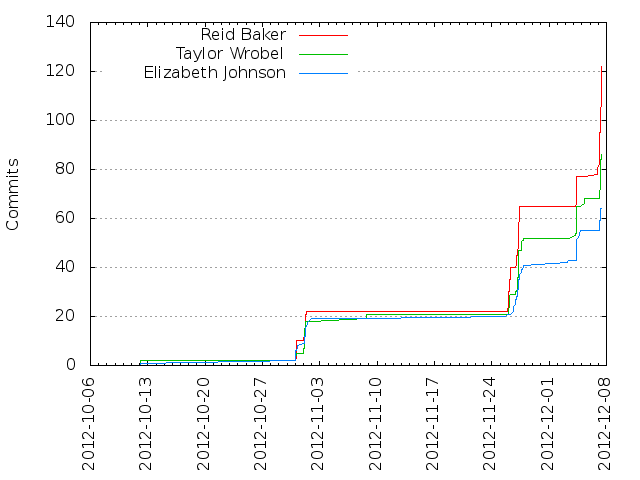
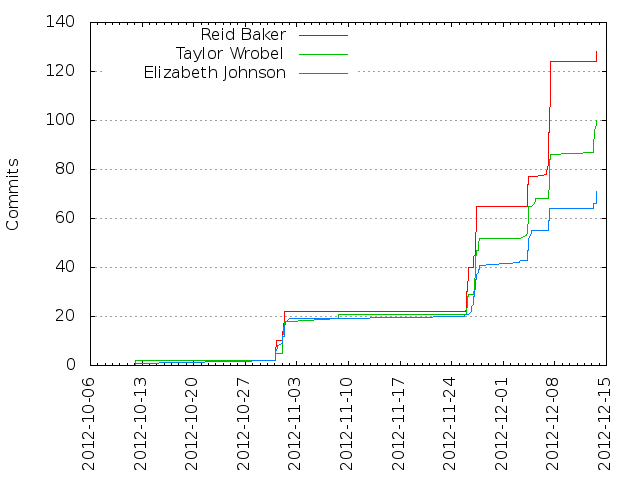
updated documentation

diff --git a/documentation/gitstat/activity.html b/documentation/gitstat/activity.html
@@ -22,27 +22,27 @@
 
 <h2><a href="#weekly_activity" name="weekly_activity">Weekly activity</a></h2>
 
-<p>Last 32 weeks</p><table class="noborders"><tr><td style="text-align: center; vertical-align: bottom">0<div style="display: block; background-color: red; width: 20px; height: 1px"></div></td><td style="text-align: center; vertical-align: bottom">0<div style="display: block; background-color: red; width: 20px; height: 1px"></div></td><td style="text-align: center; vertical-align: bottom">0<div style="display: block; background-color: red; width: 20px; height: 1px"></div></td><td style="text-align: center; vertical-align: bottom">0<div style="display: block; background-color: red; width: 20px; height: 1px"></div></td><td style="text-align: center; vertical-align: bottom">0<div style="display: block; background-color: red; width: 20px; height: 1px"></div></td><td style="text-align: center; vertical-align: bottom">0<div style="display: block; background-color: red; width: 20px; height: 1px"></div></td><td style="text-align: center; vertical-align: bottom">0<div style="display: block; background-color: red; width: 20px; height: 1px"></div></td><td style="text-align: center; vertical-align: bottom">0<div style="display: block; background-color: red; width: 20px; height: 1px"></div></td><td style="text-align: center; vertical-align: bottom">0<div style="display: block; background-color: red; width: 20px; height: 1px"></div></td><td style="text-align: center; vertical-align: bottom">0<div style="display: block; background-color: red; width: 20px; height: 1px"></div></td><td style="text-align: center; vertical-align: bottom">0<div style="display: block; background-color: red; width: 20px; height: 1px"></div></td><td style="text-align: center; vertical-align: bottom">0<div style="display: block; background-color: red; width: 20px; height: 1px"></div></td><td style="text-align: center; vertical-align: bottom">0<div style="display: block; background-color: red; width: 20px; height: 1px"></div></td><td style="text-align: center; vertical-align: bottom">0<div style="display: block; background-color: red; width: 20px; height: 1px"></div></td><td style="text-align: center; vertical-align: bottom">0<div style="display: block; background-color: red; width: 20px; height: 1px"></div></td><td style="text-align: center; vertical-align: bottom">0<div style="display: block; background-color: red; width: 20px; height: 1px"></div></td><td style="text-align: center; vertical-align: bottom">0<div style="display: block; background-color: red; width: 20px; height: 1px"></div></td><td style="text-align: center; vertical-align: bottom">0<div style="display: block; background-color: red; width: 20px; height: 1px"></div></td><td style="text-align: center; vertical-align: bottom">0<div style="display: block; background-color: red; width: 20px; height: 1px"></div></td><td style="text-align: center; vertical-align: bottom">0<div style="display: block; background-color: red; width: 20px; height: 1px"></div></td><td style="text-align: center; vertical-align: bottom">0<div style="display: block; background-color: red; width: 20px; height: 1px"></div></td><td style="text-align: center; vertical-align: bottom">0<div style="display: block; background-color: red; width: 20px; height: 1px"></div></td><td style="text-align: center; vertical-align: bottom">0<div style="display: block; background-color: red; width: 20px; height: 1px"></div></td><td style="text-align: center; vertical-align: bottom">5<div style="display: block; background-color: red; width: 20px; height: 8px"></div></td><td style="text-align: center; vertical-align: bottom">0<div style="display: block; background-color: red; width: 20px; height: 1px"></div></td><td style="text-align: center; vertical-align: bottom">0<div style="display: block; background-color: red; width: 20px; height: 1px"></div></td><td style="text-align: center; vertical-align: bottom">54<div style="display: block; background-color: red; width: 20px; height: 94px"></div></td><td style="text-align: center; vertical-align: bottom">3<div style="display: block; background-color: red; width: 20px; height: 5px"></div></td><td style="text-align: center; vertical-align: bottom">0<div style="display: block; background-color: red; width: 20px; height: 1px"></div></td><td style="text-align: center; vertical-align: bottom">21<div style="display: block; background-color: red; width: 20px; height: 36px"></div></td><td style="text-align: center; vertical-align: bottom">75<div style="display: block; background-color: red; width: 20px; height: 131px"></div></td><td style="text-align: center; vertical-align: bottom">114<div style="display: block; background-color: red; width: 20px; height: 200px"></div></td></tr><tr><td>32</td><td>31</td><td>30</td><td>29</td><td>28</td><td>27</td><td>26</td><td>25</td><td>24</td><td>23</td><td>22</td><td>21</td><td>20</td><td>19</td><td>18</td><td>17</td><td>16</td><td>15</td><td>14</td><td>13</td><td>12</td><td>11</td><td>10</td><td>9</td><td>8</td><td>7</td><td>6</td><td>5</td><td>4</td><td>3</td><td>2</td><td>1</td></tr></table>
+<p>Last 32 weeks</p><table class="noborders"><tr><td style="text-align: center; vertical-align: bottom">0<div style="display: block; background-color: red; width: 20px; height: 1px"></div></td><td style="text-align: center; vertical-align: bottom">0<div style="display: block; background-color: red; width: 20px; height: 1px"></div></td><td style="text-align: center; vertical-align: bottom">0<div style="display: block; background-color: red; width: 20px; height: 1px"></div></td><td style="text-align: center; vertical-align: bottom">0<div style="display: block; background-color: red; width: 20px; height: 1px"></div></td><td style="text-align: center; vertical-align: bottom">0<div style="display: block; background-color: red; width: 20px; height: 1px"></div></td><td style="text-align: center; vertical-align: bottom">0<div style="display: block; background-color: red; width: 20px; height: 1px"></div></td><td style="text-align: center; vertical-align: bottom">0<div style="display: block; background-color: red; width: 20px; height: 1px"></div></td><td style="text-align: center; vertical-align: bottom">0<div style="display: block; background-color: red; width: 20px; height: 1px"></div></td><td style="text-align: center; vertical-align: bottom">0<div style="display: block; background-color: red; width: 20px; height: 1px"></div></td><td style="text-align: center; vertical-align: bottom">0<div style="display: block; background-color: red; width: 20px; height: 1px"></div></td><td style="text-align: center; vertical-align: bottom">0<div style="display: block; background-color: red; width: 20px; height: 1px"></div></td><td style="text-align: center; vertical-align: bottom">0<div style="display: block; background-color: red; width: 20px; height: 1px"></div></td><td style="text-align: center; vertical-align: bottom">0<div style="display: block; background-color: red; width: 20px; height: 1px"></div></td><td style="text-align: center; vertical-align: bottom">0<div style="display: block; background-color: red; width: 20px; height: 1px"></div></td><td style="text-align: center; vertical-align: bottom">0<div style="display: block; background-color: red; width: 20px; height: 1px"></div></td><td style="text-align: center; vertical-align: bottom">0<div style="display: block; background-color: red; width: 20px; height: 1px"></div></td><td style="text-align: center; vertical-align: bottom">0<div style="display: block; background-color: red; width: 20px; height: 1px"></div></td><td style="text-align: center; vertical-align: bottom">0<div style="display: block; background-color: red; width: 20px; height: 1px"></div></td><td style="text-align: center; vertical-align: bottom">0<div style="display: block; background-color: red; width: 20px; height: 1px"></div></td><td style="text-align: center; vertical-align: bottom">0<div style="display: block; background-color: red; width: 20px; height: 1px"></div></td><td style="text-align: center; vertical-align: bottom">0<div style="display: block; background-color: red; width: 20px; height: 1px"></div></td><td style="text-align: center; vertical-align: bottom">0<div style="display: block; background-color: red; width: 20px; height: 1px"></div></td><td style="text-align: center; vertical-align: bottom">5<div style="display: block; background-color: red; width: 20px; height: 8px"></div></td><td style="text-align: center; vertical-align: bottom">0<div style="display: block; background-color: red; width: 20px; height: 1px"></div></td><td style="text-align: center; vertical-align: bottom">0<div style="display: block; background-color: red; width: 20px; height: 1px"></div></td><td style="text-align: center; vertical-align: bottom">54<div style="display: block; background-color: red; width: 20px; height: 93px"></div></td><td style="text-align: center; vertical-align: bottom">3<div style="display: block; background-color: red; width: 20px; height: 5px"></div></td><td style="text-align: center; vertical-align: bottom">0<div style="display: block; background-color: red; width: 20px; height: 1px"></div></td><td style="text-align: center; vertical-align: bottom">21<div style="display: block; background-color: red; width: 20px; height: 36px"></div></td><td style="text-align: center; vertical-align: bottom">75<div style="display: block; background-color: red; width: 20px; height: 129px"></div></td><td style="text-align: center; vertical-align: bottom">116<div style="display: block; background-color: red; width: 20px; height: 200px"></div></td><td style="text-align: center; vertical-align: bottom">25<div style="display: block; background-color: red; width: 20px; height: 43px"></div></td></tr><tr><td>32</td><td>31</td><td>30</td><td>29</td><td>28</td><td>27</td><td>26</td><td>25</td><td>24</td><td>23</td><td>22</td><td>21</td><td>20</td><td>19</td><td>18</td><td>17</td><td>16</td><td>15</td><td>14</td><td>13</td><td>12</td><td>11</td><td>10</td><td>9</td><td>8</td><td>7</td><td>6</td><td>5</td><td>4</td><td>3</td><td>2</td><td>1</td></tr></table>
 <h2><a href="#hour_of_day" name="hour_of_day">Hour of Day</a></h2>
 
 <table><tr><th>Hour</th><th>0</th><th>1</th><th>2</th><th>3</th><th>4</th><th>5</th><th>6</th><th>7</th><th>8</th><th>9</th><th>10</th><th>11</th><th>12</th><th>13</th><th>14</th><th>15</th><th>16</th><th>17</th><th>18</th><th>19</th><th>20</th><th>21</th><th>22</th><th>23</th></tr>
-<tr><th>Commits</th><td style="background-color: rgb(211, 0, 0)">25</td><td style="background-color: rgb(234, 0, 0)">32</td><td style="background-color: rgb(214, 0, 0)">26</td><td style="background-color: rgb(251, 0, 0)">37</td><td style="background-color: rgb(197, 0, 0)">21</td><td style="background-color: rgb(137, 0, 0)">3</td><td>0</td><td style="background-color: rgb(130, 0, 0)">1</td><td>0</td><td style="background-color: rgb(130, 0, 0)">1</td><td style="background-color: rgb(153, 0, 0)">8</td><td style="background-color: rgb(143, 0, 0)">5</td><td style="background-color: rgb(130, 0, 0)">1</td><td style="background-color: rgb(130, 0, 0)">1</td><td style="background-color: rgb(133, 0, 0)">2</td><td style="background-color: rgb(140, 0, 0)">4</td><td style="background-color: rgb(140, 0, 0)">4</td><td style="background-color: rgb(137, 0, 0)">3</td><td style="background-color: rgb(140, 0, 0)">4</td><td style="background-color: rgb(150, 0, 0)">7</td><td style="background-color: rgb(157, 0, 0)">9</td><td style="background-color: rgb(150, 0, 0)">7</td><td style="background-color: rgb(238, 0, 0)">33</td><td style="background-color: rgb(255, 0, 0)">38</td></tr>
-<tr><th>%</th><td style="background-color: rgb(211, 0, 0)">9.19</td><td style="background-color: rgb(234, 0, 0)">11.76</td><td style="background-color: rgb(214, 0, 0)">9.56</td><td style="background-color: rgb(251, 0, 0)">13.60</td><td style="background-color: rgb(197, 0, 0)">7.72</td><td style="background-color: rgb(137, 0, 0)">1.10</td><td>0.00</td><td style="background-color: rgb(130, 0, 0)">0.37</td><td>0.00</td><td style="background-color: rgb(130, 0, 0)">0.37</td><td style="background-color: rgb(153, 0, 0)">2.94</td><td style="background-color: rgb(143, 0, 0)">1.84</td><td style="background-color: rgb(130, 0, 0)">0.37</td><td style="background-color: rgb(130, 0, 0)">0.37</td><td style="background-color: rgb(133, 0, 0)">0.74</td><td style="background-color: rgb(140, 0, 0)">1.47</td><td style="background-color: rgb(140, 0, 0)">1.47</td><td style="background-color: rgb(137, 0, 0)">1.10</td><td style="background-color: rgb(140, 0, 0)">1.47</td><td style="background-color: rgb(150, 0, 0)">2.57</td><td style="background-color: rgb(157, 0, 0)">3.31</td><td style="background-color: rgb(150, 0, 0)">2.57</td><td style="background-color: rgb(238, 0, 0)">12.13</td><td style="background-color: rgb(255, 0, 0)">13.97</td></tr></table><img src="hour_of_day.png" alt="Hour of Day" />
+<tr><th>Commits</th><td style="background-color: rgb(220, 0, 0)">30</td><td style="background-color: rgb(236, 0, 0)">35</td><td style="background-color: rgb(208, 0, 0)">26</td><td style="background-color: rgb(255, 0, 0)">41</td><td style="background-color: rgb(192, 0, 0)">21</td><td style="background-color: rgb(142, 0, 0)">5</td><td>0</td><td style="background-color: rgb(130, 0, 0)">1</td><td style="background-color: rgb(139, 0, 0)">4</td><td style="background-color: rgb(142, 0, 0)">5</td><td style="background-color: rgb(167, 0, 0)">13</td><td style="background-color: rgb(142, 0, 0)">5</td><td style="background-color: rgb(130, 0, 0)">1</td><td style="background-color: rgb(130, 0, 0)">1</td><td style="background-color: rgb(133, 0, 0)">2</td><td style="background-color: rgb(139, 0, 0)">4</td><td style="background-color: rgb(139, 0, 0)">4</td><td style="background-color: rgb(136, 0, 0)">3</td><td style="background-color: rgb(139, 0, 0)">4</td><td style="background-color: rgb(148, 0, 0)">7</td><td style="background-color: rgb(155, 0, 0)">9</td><td style="background-color: rgb(148, 0, 0)">7</td><td style="background-color: rgb(230, 0, 0)">33</td><td style="background-color: rgb(245, 0, 0)">38</td></tr>
+<tr><th>%</th><td style="background-color: rgb(220, 0, 0)">10.03</td><td style="background-color: rgb(236, 0, 0)">11.71</td><td style="background-color: rgb(208, 0, 0)">8.70</td><td style="background-color: rgb(255, 0, 0)">13.71</td><td style="background-color: rgb(192, 0, 0)">7.02</td><td style="background-color: rgb(142, 0, 0)">1.67</td><td>0.00</td><td style="background-color: rgb(130, 0, 0)">0.33</td><td style="background-color: rgb(139, 0, 0)">1.34</td><td style="background-color: rgb(142, 0, 0)">1.67</td><td style="background-color: rgb(167, 0, 0)">4.35</td><td style="background-color: rgb(142, 0, 0)">1.67</td><td style="background-color: rgb(130, 0, 0)">0.33</td><td style="background-color: rgb(130, 0, 0)">0.33</td><td style="background-color: rgb(133, 0, 0)">0.67</td><td style="background-color: rgb(139, 0, 0)">1.34</td><td style="background-color: rgb(139, 0, 0)">1.34</td><td style="background-color: rgb(136, 0, 0)">1.00</td><td style="background-color: rgb(139, 0, 0)">1.34</td><td style="background-color: rgb(148, 0, 0)">2.34</td><td style="background-color: rgb(155, 0, 0)">3.01</td><td style="background-color: rgb(148, 0, 0)">2.34</td><td style="background-color: rgb(230, 0, 0)">11.04</td><td style="background-color: rgb(245, 0, 0)">12.71</td></tr></table><img src="hour_of_day.png" alt="Hour of Day" />
 <h2><a href="#day_of_week" name="day_of_week">Day of Week</a></h2>
 
-<div class="vtable"><table><tr><th>Day</th><th>Total (%)</th></tr><tr><th>Mon</th><td>36 (13.24%)</td></tr><tr><th>Tue</th><td>92 (33.82%)</td></tr><tr><th>Wed</th><td>23 (8.46%)</td></tr><tr><th>Thu</th><td>55 (20.22%)</td></tr><tr><th>Fri</th><td>45 (16.54%)</td></tr><tr><th>Sat</th><td>0</td></tr><tr><th>Sun</th><td>21 (7.72%)</td></tr></table></div><img src="day_of_week.png" alt="Day of Week" />
+<div class="vtable"><table><tr><th>Day</th><th>Total (%)</th></tr><tr><th>Mon</th><td>36 (12.04%)</td></tr><tr><th>Tue</th><td>92 (30.77%)</td></tr><tr><th>Wed</th><td>23 (7.69%)</td></tr><tr><th>Thu</th><td>80 (26.76%)</td></tr><tr><th>Fri</th><td>47 (15.72%)</td></tr><tr><th>Sat</th><td>0</td></tr><tr><th>Sun</th><td>21 (7.02%)</td></tr></table></div><img src="day_of_week.png" alt="Day of Week" />
 <h2><a href="#hour_of_week" name="hour_of_week">Hour of Week</a></h2>
 
-<table><tr><th>Weekday</th><th>0</th><th>1</th><th>2</th><th>3</th><th>4</th><th>5</th><th>6</th><th>7</th><th>8</th><th>9</th><th>10</th><th>11</th><th>12</th><th>13</th><th>14</th><th>15</th><th>16</th><th>17</th><th>18</th><th>19</th><th>20</th><th>21</th><th>22</th><th>23</th></tr><tr><th>Mon</th><td style="background-color: rgb(144, 0, 0)">3</td><td style="background-color: rgb(150, 0, 0)">4</td><td style="background-color: rgb(132, 0, 0)">1</td><td style="background-color: rgb(132, 0, 0)">1</td><td></td><td></td><td></td><td></td><td></td><td></td><td></td><td style="background-color: rgb(144, 0, 0)">3</td><td></td><td></td><td></td><td></td><td style="background-color: rgb(150, 0, 0)">4</td><td></td><td style="background-color: rgb(138, 0, 0)">2</td><td style="background-color: rgb(144, 0, 0)">3</td><td style="background-color: rgb(132, 0, 0)">1</td><td style="background-color: rgb(132, 0, 0)">1</td><td style="background-color: rgb(167, 0, 0)">7</td><td style="background-color: rgb(161, 0, 0)">6</td></tr><tr><th>Tue</th><td style="background-color: rgb(196, 0, 0)">12</td><td style="background-color: rgb(202, 0, 0)">13</td><td style="background-color: rgb(202, 0, 0)">13</td><td style="background-color: rgb(220, 0, 0)">16</td><td style="background-color: rgb(196, 0, 0)">12</td><td></td><td></td><td></td><td></td><td style="background-color: rgb(132, 0, 0)">1</td><td style="background-color: rgb(150, 0, 0)">4</td><td style="background-color: rgb(132, 0, 0)">1</td><td style="background-color: rgb(132, 0, 0)">1</td><td style="background-color: rgb(132, 0, 0)">1</td><td style="background-color: rgb(138, 0, 0)">2</td><td style="background-color: rgb(138, 0, 0)">2</td><td></td><td></td><td></td><td></td><td></td><td style="background-color: rgb(156, 0, 0)">5</td><td style="background-color: rgb(161, 0, 0)">6</td><td style="background-color: rgb(144, 0, 0)">3</td></tr><tr><th>Wed</th><td style="background-color: rgb(138, 0, 0)">2</td><td style="background-color: rgb(132, 0, 0)">1</td><td></td><td style="background-color: rgb(150, 0, 0)">4</td><td></td><td></td><td></td><td></td><td></td><td></td><td></td><td></td><td></td><td></td><td></td><td></td><td></td><td></td><td></td><td style="background-color: rgb(132, 0, 0)">1</td><td style="background-color: rgb(138, 0, 0)">2</td><td style="background-color: rgb(132, 0, 0)">1</td><td style="background-color: rgb(191, 0, 0)">11</td><td style="background-color: rgb(132, 0, 0)">1</td></tr><tr><th>Thu</th><td style="background-color: rgb(138, 0, 0)">2</td><td style="background-color: rgb(144, 0, 0)">3</td><td style="background-color: rgb(144, 0, 0)">3</td><td style="background-color: rgb(173, 0, 0)">8</td><td style="background-color: rgb(132, 0, 0)">1</td><td></td><td></td><td style="background-color: rgb(132, 0, 0)">1</td><td></td><td></td><td style="background-color: rgb(150, 0, 0)">4</td><td></td><td></td><td></td><td></td><td style="background-color: rgb(132, 0, 0)">1</td><td></td><td style="background-color: rgb(144, 0, 0)">3</td><td></td><td></td><td style="background-color: rgb(132, 0, 0)">1</td><td></td><td style="background-color: rgb(161, 0, 0)">6</td><td style="background-color: rgb(255, 0, 0)">22</td></tr><tr><th>Fri</th><td style="background-color: rgb(161, 0, 0)">6</td><td style="background-color: rgb(191, 0, 0)">11</td><td style="background-color: rgb(179, 0, 0)">9</td><td style="background-color: rgb(173, 0, 0)">8</td><td style="background-color: rgb(173, 0, 0)">8</td><td style="background-color: rgb(144, 0, 0)">3</td><td></td><td></td><td></td><td></td><td></td><td></td><td></td><td></td><td></td><td></td><td></td><td></td><td></td><td></td><td></td><td></td><td></td><td></td></tr><tr><th>Sat</th><td></td><td></td><td></td><td></td><td></td><td></td><td></td><td></td><td></td><td></td><td></td><td></td><td></td><td></td><td></td><td></td><td></td><td></td><td></td><td></td><td></td><td></td><td></td><td></td></tr><tr><th>Sun</th><td></td><td></td><td></td><td></td><td></td><td></td><td></td><td></td><td></td><td></td><td></td><td style="background-color: rgb(132, 0, 0)">1</td><td></td><td></td><td></td><td style="background-color: rgb(132, 0, 0)">1</td><td></td><td></td><td style="background-color: rgb(138, 0, 0)">2</td><td style="background-color: rgb(144, 0, 0)">3</td><td style="background-color: rgb(156, 0, 0)">5</td><td></td><td style="background-color: rgb(144, 0, 0)">3</td><td style="background-color: rgb(161, 0, 0)">6</td></tr></table>
+<table><tr><th>Weekday</th><th>0</th><th>1</th><th>2</th><th>3</th><th>4</th><th>5</th><th>6</th><th>7</th><th>8</th><th>9</th><th>10</th><th>11</th><th>12</th><th>13</th><th>14</th><th>15</th><th>16</th><th>17</th><th>18</th><th>19</th><th>20</th><th>21</th><th>22</th><th>23</th></tr><tr><th>Mon</th><td style="background-color: rgb(144, 0, 0)">3</td><td style="background-color: rgb(150, 0, 0)">4</td><td style="background-color: rgb(132, 0, 0)">1</td><td style="background-color: rgb(132, 0, 0)">1</td><td></td><td></td><td></td><td></td><td></td><td></td><td></td><td style="background-color: rgb(144, 0, 0)">3</td><td></td><td></td><td></td><td></td><td style="background-color: rgb(150, 0, 0)">4</td><td></td><td style="background-color: rgb(138, 0, 0)">2</td><td style="background-color: rgb(144, 0, 0)">3</td><td style="background-color: rgb(132, 0, 0)">1</td><td style="background-color: rgb(132, 0, 0)">1</td><td style="background-color: rgb(167, 0, 0)">7</td><td style="background-color: rgb(161, 0, 0)">6</td></tr><tr><th>Tue</th><td style="background-color: rgb(196, 0, 0)">12</td><td style="background-color: rgb(202, 0, 0)">13</td><td style="background-color: rgb(202, 0, 0)">13</td><td style="background-color: rgb(220, 0, 0)">16</td><td style="background-color: rgb(196, 0, 0)">12</td><td></td><td></td><td></td><td></td><td style="background-color: rgb(132, 0, 0)">1</td><td style="background-color: rgb(150, 0, 0)">4</td><td style="background-color: rgb(132, 0, 0)">1</td><td style="background-color: rgb(132, 0, 0)">1</td><td style="background-color: rgb(132, 0, 0)">1</td><td style="background-color: rgb(138, 0, 0)">2</td><td style="background-color: rgb(138, 0, 0)">2</td><td></td><td></td><td></td><td></td><td></td><td style="background-color: rgb(156, 0, 0)">5</td><td style="background-color: rgb(161, 0, 0)">6</td><td style="background-color: rgb(144, 0, 0)">3</td></tr><tr><th>Wed</th><td style="background-color: rgb(138, 0, 0)">2</td><td style="background-color: rgb(132, 0, 0)">1</td><td></td><td style="background-color: rgb(150, 0, 0)">4</td><td></td><td></td><td></td><td></td><td></td><td></td><td></td><td></td><td></td><td></td><td></td><td></td><td></td><td></td><td></td><td style="background-color: rgb(132, 0, 0)">1</td><td style="background-color: rgb(138, 0, 0)">2</td><td style="background-color: rgb(132, 0, 0)">1</td><td style="background-color: rgb(191, 0, 0)">11</td><td style="background-color: rgb(132, 0, 0)">1</td></tr><tr><th>Thu</th><td style="background-color: rgb(167, 0, 0)">7</td><td style="background-color: rgb(161, 0, 0)">6</td><td style="background-color: rgb(144, 0, 0)">3</td><td style="background-color: rgb(196, 0, 0)">12</td><td style="background-color: rgb(132, 0, 0)">1</td><td></td><td></td><td style="background-color: rgb(132, 0, 0)">1</td><td style="background-color: rgb(150, 0, 0)">4</td><td style="background-color: rgb(150, 0, 0)">4</td><td style="background-color: rgb(179, 0, 0)">9</td><td></td><td></td><td></td><td></td><td style="background-color: rgb(132, 0, 0)">1</td><td></td><td style="background-color: rgb(144, 0, 0)">3</td><td></td><td></td><td style="background-color: rgb(132, 0, 0)">1</td><td></td><td style="background-color: rgb(161, 0, 0)">6</td><td style="background-color: rgb(255, 0, 0)">22</td></tr><tr><th>Fri</th><td style="background-color: rgb(161, 0, 0)">6</td><td style="background-color: rgb(191, 0, 0)">11</td><td style="background-color: rgb(179, 0, 0)">9</td><td style="background-color: rgb(173, 0, 0)">8</td><td style="background-color: rgb(173, 0, 0)">8</td><td style="background-color: rgb(156, 0, 0)">5</td><td></td><td></td><td></td><td></td><td></td><td></td><td></td><td></td><td></td><td></td><td></td><td></td><td></td><td></td><td></td><td></td><td></td><td></td></tr><tr><th>Sat</th><td></td><td></td><td></td><td></td><td></td><td></td><td></td><td></td><td></td><td></td><td></td><td></td><td></td><td></td><td></td><td></td><td></td><td></td><td></td><td></td><td></td><td></td><td></td><td></td></tr><tr><th>Sun</th><td></td><td></td><td></td><td></td><td></td><td></td><td></td><td></td><td></td><td></td><td></td><td style="background-color: rgb(132, 0, 0)">1</td><td></td><td></td><td></td><td style="background-color: rgb(132, 0, 0)">1</td><td></td><td></td><td style="background-color: rgb(138, 0, 0)">2</td><td style="background-color: rgb(144, 0, 0)">3</td><td style="background-color: rgb(156, 0, 0)">5</td><td></td><td style="background-color: rgb(144, 0, 0)">3</td><td style="background-color: rgb(161, 0, 0)">6</td></tr></table>
 <h2><a href="#month_of_year" name="month_of_year">Month of Year</a></h2>
 
-<div class="vtable"><table><tr><th>Month</th><th>Commits (%)</th></tr><tr><td>1</td><td>0 (0.00 %)</td></tr><tr><td>2</td><td>0 (0.00 %)</td></tr><tr><td>3</td><td>0 (0.00 %)</td></tr><tr><td>4</td><td>0 (0.00 %)</td></tr><tr><td>5</td><td>0 (0.00 %)</td></tr><tr><td>6</td><td>0 (0.00 %)</td></tr><tr><td>7</td><td>0 (0.00 %)</td></tr><tr><td>8</td><td>0 (0.00 %)</td></tr><tr><td>9</td><td>0 (0.00 %)</td></tr><tr><td>10</td><td>39 (14.34 %)</td></tr><tr><td>11</td><td>119 (43.75 %)</td></tr><tr><td>12</td><td>114 (41.91 %)</td></tr></table></div><img src="month_of_year.png" alt="Month of Year" />
+<div class="vtable"><table><tr><th>Month</th><th>Commits (%)</th></tr><tr><td>1</td><td>0 (0.00 %)</td></tr><tr><td>2</td><td>0 (0.00 %)</td></tr><tr><td>3</td><td>0 (0.00 %)</td></tr><tr><td>4</td><td>0 (0.00 %)</td></tr><tr><td>5</td><td>0 (0.00 %)</td></tr><tr><td>6</td><td>0 (0.00 %)</td></tr><tr><td>7</td><td>0 (0.00 %)</td></tr><tr><td>8</td><td>0 (0.00 %)</td></tr><tr><td>9</td><td>0 (0.00 %)</td></tr><tr><td>10</td><td>39 (13.04 %)</td></tr><tr><td>11</td><td>119 (39.80 %)</td></tr><tr><td>12</td><td>141 (47.16 %)</td></tr></table></div><img src="month_of_year.png" alt="Month of Year" />
 <h2><a href="#commits_by_year/month" name="commits_by_year/month">Commits by year/month</a></h2>
 
-<div class="vtable"><table><tr><th>Month</th><th>Commits</th><th>Lines added</th><th>Lines removed</th></tr><tr><td>2012-12</td><td>114</td><td>89484</td><td>68094</td></tr><tr><td>2012-11</td><td>119</td><td>13671</td><td>2170</td></tr><tr><td>2012-10</td><td>39</td><td>4131</td><td>169</td></tr></table></div><img src="commits_by_year_month.png" alt="Commits by year/month" />
+<div class="vtable"><table><tr><th>Month</th><th>Commits</th><th>Lines added</th><th>Lines removed</th></tr><tr><td>2012-12</td><td>141</td><td>203804</td><td>71143</td></tr><tr><td>2012-11</td><td>119</td><td>13671</td><td>2170</td></tr><tr><td>2012-10</td><td>39</td><td>4131</td><td>169</td></tr></table></div><img src="commits_by_year_month.png" alt="Commits by year/month" />
 <h2><a href="#commits_by_year" name="commits_by_year">Commits by Year</a></h2>
 
-<div class="vtable"><table><tr><th>Year</th><th>Commits (% of all)</th><th>Lines added</th><th>Lines removed</th></tr><tr><td>2012</td><td>272 (100.00%)</td><td>107286</td><td>70433</td></tr></table></div><img src="commits_by_year.png" alt="Commits by Year" />
+<div class="vtable"><table><tr><th>Year</th><th>Commits (% of all)</th><th>Lines added</th><th>Lines removed</th></tr><tr><td>2012</td><td>299 (100.00%)</td><td>221606</td><td>73482</td></tr></table></div><img src="commits_by_year.png" alt="Commits by Year" />
 <h2><a href="#commits_by_timezone" name="commits_by_timezone">Commits by Timezone</a></h2>
 
-<table><tr><th>Timezone</th><th>Commits</th><tr><th>-0500</th><td style="background-color: rgb(255, 0, 0)">213</td></tr><tr><th>-0400</th><td style="background-color: rgb(162, 0, 0)">59</td></tr></tr></table></body></html>
+<table><tr><th>Timezone</th><th>Commits</th><tr><th>-0500</th><td style="background-color: rgb(255, 0, 0)">240</td></tr><tr><th>-0400</th><td style="background-color: rgb(158, 0, 0)">59</td></tr></tr></table></body></html>

diff --git a/documentation/gitstat/authors.html b/documentation/gitstat/authors.html
@@ -22,7 +22,7 @@
 
 <h2><a href="#list_of_authors" name="list_of_authors">List of Authors</a></h2>
 
-<table class="authors sortable" id="authors"><tr><th>Author</th><th>Commits (%)</th><th>+ lines</th><th>- lines</th><th>First commit</th><th>Last commit</th><th class="unsortable">Age</th><th>Active days</th><th># by commits</th></tr><tr><td>Reid Baker</td><td>122 (44.85%)</td><td>50779</td><td>66572</td><td>2012-10-11</td><td>2012-12-07</td><td>56 days, 6:51:16</td><td>10</td><td>1</td></tr><tr><td>Taylor Wrobel</td><td>86 (31.62%)</td><td>40989</td><td>1857</td><td>2012-10-11</td><td>2012-12-07</td><td>56 days, 5:14:13</td><td>13</td><td>2</td></tr><tr><td>Elizabeth Johnson</td><td>64 (23.53%)</td><td>17969</td><td>1505</td><td>2012-10-11</td><td>2012-12-07</td><td>56 days, 3:20:17</td><td>11</td><td>3</td></tr></table>
+<table class="authors sortable" id="authors"><tr><th>Author</th><th>Commits (%)</th><th>+ lines</th><th>- lines</th><th>First commit</th><th>Last commit</th><th class="unsortable">Age</th><th>Active days</th><th># by commits</th></tr><tr><td>Reid Baker</td><td>128 (42.81%)</td><td>82727</td><td>66574</td><td>2012-10-11</td><td>2012-12-13</td><td>62 days, 11:26:57</td><td>11</td><td>1</td></tr><tr><td>Taylor Wrobel</td><td>100 (33.44%)</td><td>116248</td><td>3828</td><td>2012-10-11</td><td>2012-12-13</td><td>62 days, 10:42:02</td><td>14</td><td>2</td></tr><tr><td>Elizabeth Johnson</td><td>71 (23.75%)</td><td>26894</td><td>1581</td><td>2012-10-11</td><td>2012-12-13</td><td>62 days, 10:42:36</td><td>12</td><td>3</td></tr></table>
 <h2><a href="#cumulated_added_lines_of_code_per_author" name="cumulated_added_lines_of_code_per_author">Cumulated Added Lines of Code per Author</a></h2>
 
 <img src="lines_of_code_by_author.png" alt="Lines of code per Author" />
@@ -31,10 +31,10 @@
 <img src="commits_by_author.png" alt="Commits per Author" />
 <h2><a href="#author_of_month" name="author_of_month">Author of Month</a></h2>
 
-<table class="sortable" id="aom"><tr><th>Month</th><th>Author</th><th>Commits (%)</th><th class="unsortable">Next top 5</th><th>Number of authors</th></tr><tr><td>2012-12</td><td>Reid Baker</td><td>57 (50.00% of 114)</td><td>Taylor Wrobel, Elizabeth Johnson</td><td>3</td></tr><tr><td>2012-11</td><td>Reid Baker</td><td>51 (42.86% of 119)</td><td>Taylor Wrobel, Elizabeth Johnson</td><td>3</td></tr><tr><td>2012-10</td><td>Reid Baker</td><td>14 (35.90% of 39)</td><td>Taylor Wrobel, Elizabeth Johnson</td><td>3</td></tr></table>
+<table class="sortable" id="aom"><tr><th>Month</th><th>Author</th><th>Commits (%)</th><th class="unsortable">Next top 5</th><th>Number of authors</th></tr><tr><td>2012-12</td><td>Reid Baker</td><td>63 (44.68% of 141)</td><td>Taylor Wrobel, Elizabeth Johnson</td><td>3</td></tr><tr><td>2012-11</td><td>Reid Baker</td><td>51 (42.86% of 119)</td><td>Taylor Wrobel, Elizabeth Johnson</td><td>3</td></tr><tr><td>2012-10</td><td>Reid Baker</td><td>14 (35.90% of 39)</td><td>Taylor Wrobel, Elizabeth Johnson</td><td>3</td></tr></table>
 <h2><a href="#author_of_year" name="author_of_year">Author of Year</a></h2>
 
-<table class="sortable" id="aoy"><tr><th>Year</th><th>Author</th><th>Commits (%)</th><th class="unsortable">Next top 5</th><th>Number of authors</th></tr><tr><td>2012</td><td>Reid Baker</td><td>122 (44.85% of 272)</td><td>Taylor Wrobel, Elizabeth Johnson</td><td>3</td></tr></table>
+<table class="sortable" id="aoy"><tr><th>Year</th><th>Author</th><th>Commits (%)</th><th class="unsortable">Next top 5</th><th>Number of authors</th></tr><tr><td>2012</td><td>Reid Baker</td><td>128 (42.81% of 299)</td><td>Taylor Wrobel, Elizabeth Johnson</td><td>3</td></tr></table>
 <h2><a href="#commits_by_domains" name="commits_by_domains">Commits by Domains</a></h2>
 
-<div class="vtable"><table><tr><th>Domains</th><th>Total (%)</th></tr><tr><th>yahoo.com</th><td>122 (44.85%)</td></tr><tr><th>gmail.com</th><td>86 (31.62%)</td></tr><tr><th>gatech.edu</th><td>64 (23.53%)</td></tr></table></div><img src="domains.png" alt="Commits by Domains" /></body></html>
+<div class="vtable"><table><tr><th>Domains</th><th>Total (%)</th></tr><tr><th>yahoo.com</th><td>128 (42.81%)</td></tr><tr><th>gmail.com</th><td>100 (33.44%)</td></tr><tr><th>gatech.edu</th><td>71 (23.75%)</td></tr></table></div><img src="domains.png" alt="Commits by Domains" /></body></html>

diff --git a/documentation/gitstat/files.html b/documentation/gitstat/files.html
@@ -20,11 +20,11 @@
 </ul>
 </div>
 <dl>
-<dt>Total files</dt><dd>148</dd><dt>Total lines</dt><dd>36853</dd><dt>Average file size</dt><dd>43817.39 bytes</dd></dl>
+<dt>Total files</dt><dd>555</dd><dt>Total lines</dt><dd>148124</dd><dt>Average file size</dt><dd>24609.28 bytes</dd></dl>
 
 <h2><a href="#file_count_by_date" name="file_count_by_date">File count by date</a></h2>
 
 <img src="files_by_date.png" alt="Files by Date" />
 <h2><a href="#extensions" name="extensions">Extensions</a></h2>
 
-<table class="sortable" id="ext"><tr><th>Extension</th><th>Files (%)</th><th>Lines (%)</th><th>Lines/file</th></tr><tr><td></td><td>100 (67.57%)</td><td>27822 (75.49%)</td><td>278</td></tr><tr><td>csv</td><td>2 (1.35%)</td><td>3003 (8.15%)</td><td>1501</td></tr><tr><td>jar</td><td>7 (4.73%)</td><td>16016 (43.46%)</td><td>2288</td></tr><tr><td>java</td><td>28 (18.92%)</td><td>3213 (8.72%)</td><td>114</td></tr><tr><td>png</td><td>1 (0.68%)</td><td>275 (0.75%)</td><td>275</td></tr><tr><td>rst</td><td>1 (0.68%)</td><td>4 (0.01%)</td><td>4</td></tr><tr><td>ttf</td><td>6 (4.05%)</td><td>7091 (19.24%)</td><td>1181</td></tr><tr><td>txt</td><td>3 (2.03%)</td><td>2809 (7.62%)</td><td>936</td></tr></table></body></html>
+<table class="sortable" id="ext"><tr><th>Extension</th><th>Files (%)</th><th>Lines (%)</th><th>Lines/file</th></tr><tr><td></td><td>464 (83.60%)</td><td>137346 (92.72%)</td><td>296</td></tr><tr><td>cache</td><td>1 (0.18%)</td><td>41 (0.03%)</td><td>41</td></tr><tr><td>css</td><td>1 (0.18%)</td><td>145 (0.10%)</td><td>145</td></tr><tr><td>csv</td><td>2 (0.36%)</td><td>3003 (2.03%)</td><td>1501</td></tr><tr><td>dat</td><td>10 (1.80%)</td><td>834 (0.56%)</td><td>83</td></tr><tr><td>gif</td><td>3 (0.54%)</td><td>6 (0.00%)</td><td>2</td></tr><tr><td>html</td><td>6 (1.08%)</td><td>184 (0.12%)</td><td>30</td></tr><tr><td>jar</td><td>7 (1.26%)</td><td>16016 (10.81%)</td><td>2288</td></tr><tr><td>java</td><td>28 (5.05%)</td><td>3349 (2.26%)</td><td>119</td></tr><tr><td>js</td><td>1 (0.18%)</td><td>324 (0.22%)</td><td>324</td></tr><tr><td>pdf</td><td>1 (0.18%)</td><td>1405 (0.95%)</td><td>1405</td></tr><tr><td>plot</td><td>10 (1.80%)</td><td>118 (0.08%)</td><td>11</td></tr><tr><td>png</td><td>11 (1.98%)</td><td>463 (0.31%)</td><td>42</td></tr><tr><td>rst</td><td>1 (0.18%)</td><td>4 (0.00%)</td><td>4</td></tr><tr><td>ttf</td><td>6 (1.08%)</td><td>7091 (4.79%)</td><td>1181</td></tr><tr><td>txt</td><td>3 (0.54%)</td><td>2809 (1.90%)</td><td>936</td></tr></table></body></html>

diff --git a/documentation/gitstat/index.html b/documentation/gitstat/index.html
@@ -19,5 +19,5 @@
 <li><a href="tags.html">Tags</a></li>
 </ul>
 </div>
-<dl><dt>Project name</dt><dd>QuakesInOurMain</dd><dt>Generated</dt><dd>2012-12-07 05:34:28 (in 2 seconds)</dd><dt>Generator</dt><dd><a href="http://gitstats.sourceforge.net/">GitStats</a> (version e6b3058), git version 1.7.10.4, gnuplot 4.6 patchlevel 0</dd><dt>Report Period</dt><dd>2012-10-11 22:40:07 to 2012-12-07 05:31:23</dd><dt>Age</dt><dd>57 days, 13 active days (22.81%)</dd><dt>Total Files</dt><dd>148</dd><dt>Total Lines of Code</dt><dd>36853 (107286 added, 70433 removed)</dd><dt>Total Commits</dt><dd>272 (average 20.9 commits per active day, 4.8 per all days)</dd><dt>Authors</dt><dd>3 (average 90.7 commits per author)</dd></dl></body>
+<dl><dt>Project name</dt><dd>QuakesInOurMain</dd><dt>Generated</dt><dd>2012-12-13 10:15:48 (in 5 seconds)</dd><dt>Generator</dt><dd><a href="http://gitstats.sourceforge.net/">GitStats</a> (version e6b3058), git version 1.7.10.4, gnuplot 4.6 patchlevel 0</dd><dt>Report Period</dt><dd>2012-10-11 22:40:07 to 2012-12-13 10:13:34</dd><dt>Age</dt><dd>63 days, 14 active days (22.22%)</dd><dt>Total Files</dt><dd>555</dd><dt>Total Lines of Code</dt><dd>148124 (221606 added, 73482 removed)</dd><dt>Total Commits</dt><dd>299 (average 21.4 commits per active day, 4.7 per all days)</dd><dt>Authors</dt><dd>3 (average 99.7 commits per author)</dd></dl></body>
 </html>

diff --git a/documentation/gitstat/tags.html b/documentation/gitstat/tags.html
@@ -19,4 +19,4 @@
 <li><a href="tags.html">Tags</a></li>
 </ul>
 </div>
-<dl><dt>Total tags</dt><dd>0</dd></dl><table class="tags"><tr><th>Name</th><th>Date</th><th>Commits</th><th>Authors</th></tr></table></body></html>
+<dl><dt>Total tags</dt><dd>3</dd><dt>Average commits per tag</dt><dd>99.67</dd></dl><table class="tags"><tr><th>Name</th><th>Date</th><th>Commits</th><th>Authors</th></tr><tr><td>presented_code</td><td>2012-12-13</td><td>2</td><td>Taylor Wrobel (2)</td></tr><tr><td>formatting_updates</td><td>2012-12-13</td><td>12</td><td>Taylor Wrobel (10), Elizabeth Johnson (2)</td></tr><tr><td>turned_in_code</td><td>2012-12-07</td><td>274</td><td>Reid Baker (124), Taylor Wrobel (86), Elizabeth Johnson (64)</td></tr></table></body></html>

diff --git a/documentation/gitstat/lines.html b/documentation/gitstat/lines.html
@@ -20,7 +20,7 @@
 </ul>
 </div>
 <dl>
-<dt>Total lines</dt><dd>36853</dd></dl>
+<dt>Total lines</dt><dd>148124</dd></dl>
 
 <h2><a href="#lines_of_code" name="lines_of_code">Lines of Code</a></h2>
 
